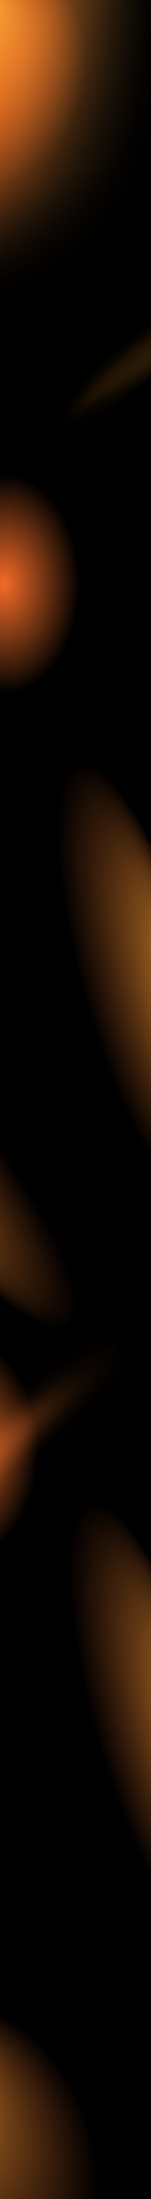
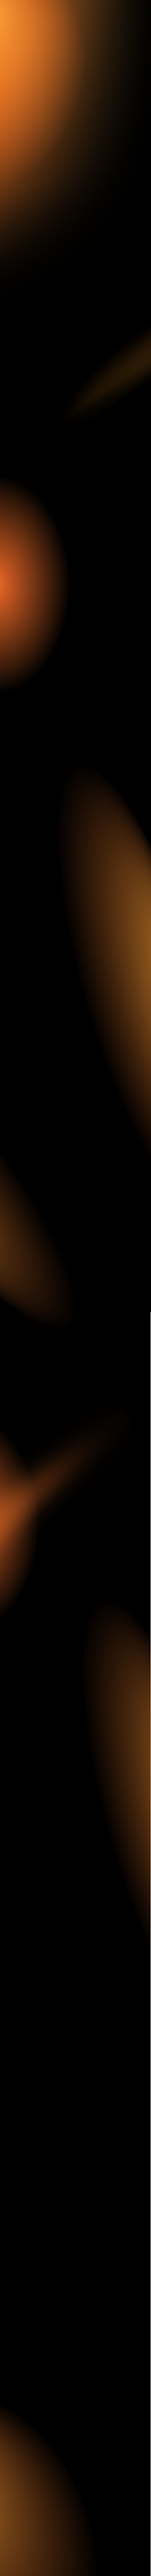
pm 7:18

diff --git a/index.html b/index.html
@@ -214,7 +214,7 @@
                             </div>
                         </div>
                         
-                        <a href="./work/design/appdesign/appdesign.html" class="more-btn">
+                        <a href="https://www.figma.com/design/B2GFolriIQXZydwH1jdsf6/%EC%95%B1%ED%8E%98%EC%9D%B4%EC%A7%80-%EB%94%94%EC%9E%90%EC%9D%B8?node-id=0-1&t=UqJ1UBBocOKtIcUO-1" class="more-btn">
                             <p>MORE</p>
                             <img src="./images/arrow.png" alt="클릭 버튼">
                         </a> 
@@ -267,7 +267,7 @@
                             </div>
                         </div>
                         
-                        <a href="./work/design/cardnews/cardnews.html" class="more-btn">
+                        <a href="https://www.figma.com/design/ZbOiMSetsKpZghFdwODehV/%EC%B9%B4%EB%93%9C-%EB%89%B4%EC%8A%A4-%EB%94%94%EC%9E%90%EC%9D%B8?node-id=0-1&t=simdUrbt2yaEhAAk-1" class="more-btn">
                             <p>MORE</p> <!--  -->
                             <img src="./images/arrow.png" alt="클릭 버튼">
                         </a> 

diff --git a/work/page/renewal/scss/renewal.scss b/work/page/renewal/scss/renewal.scss
@@ -73,6 +73,24 @@ main {
                 a {
                     display: flex;
                 }
+
+                p {
+                    font-family: $font-main;
+                    font-size: $font-size-12;
+                    color: $color-main;
+
+                    @include responsive(large-screens) {
+                        font-size: $font-size-16;
+                        font-weight: bold;
+                    }
+                }
+                img {
+                    width: 25%;
+
+                    @include responsive(large-screens) {
+                        width: 38px;
+                    }
+                }
             
             }
 

diff --git a/work/page/renewal/css/renewal.css b/work/page/renewal/css/renewal.css
@@ -99,4 +99,23 @@ main .more-btn {
 }
 main .more-btn a {
   display: flex;
+}
+main .more-btn p {
+  font-family: "Copperplate Gothic";
+  font-size: 12px;
+  color: #fff;
+}
+@media (min-width: 1440px) {
+  main .more-btn p {
+    font-size: 16px;
+    font-weight: bold;
+  }
+}
+main .more-btn img {
+  width: 25%;
+}
+@media (min-width: 1440px) {
+  main .more-btn img {
+    width: 38px;
+  }
 }/*# sourceMappingURL=renewal.css.map */

diff --git a/work/page/renewal/renewal.html b/work/page/renewal/renewal.html
@@ -67,7 +67,7 @@
                     </div>
                     
                     <a href="./aakam/AAKAM.html" class="more-btn">
-                        <p>사이트 바로가기</p>
+                        <p>사이트 방문</p>
                         <img src="./images/arrow.png" alt="클릭 버튼">
                     </a>
                 </div> <!-- intro-txt -->

diff --git a/scss/index.scss b/scss/index.scss
@@ -12,7 +12,7 @@ body {
     background-position: center;
 
     @include responsive(large-screens) {
-        background: url(../images/background_blue_pc_2.png) no-repeat;
+        background: url(../images/background_blue_pc_3.png) no-repeat;
         background-size: cover;
         background-position: center;
     }

diff --git a/css/index.css b/css/index.css
@@ -44,7 +44,7 @@ body {
 }
 @media (min-width: 1440px) {
   body {
-    background: url(../images/background_blue_pc_2.png) no-repeat;
+    background: url(../images/background_blue_pc_3.png) no-repeat;
     background-size: cover;
     background-position: center;
   }
